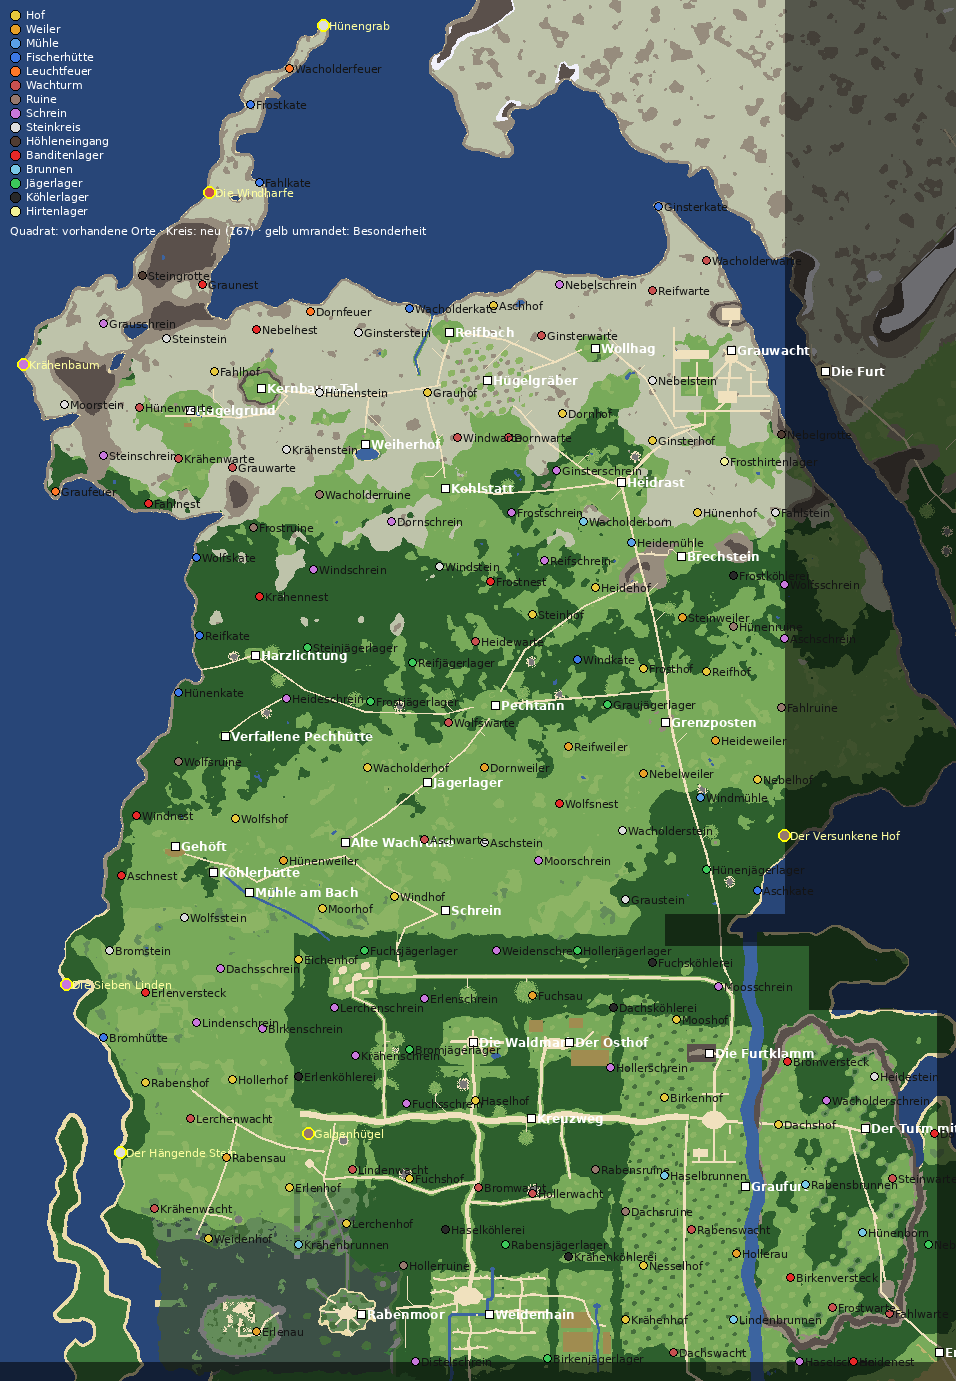
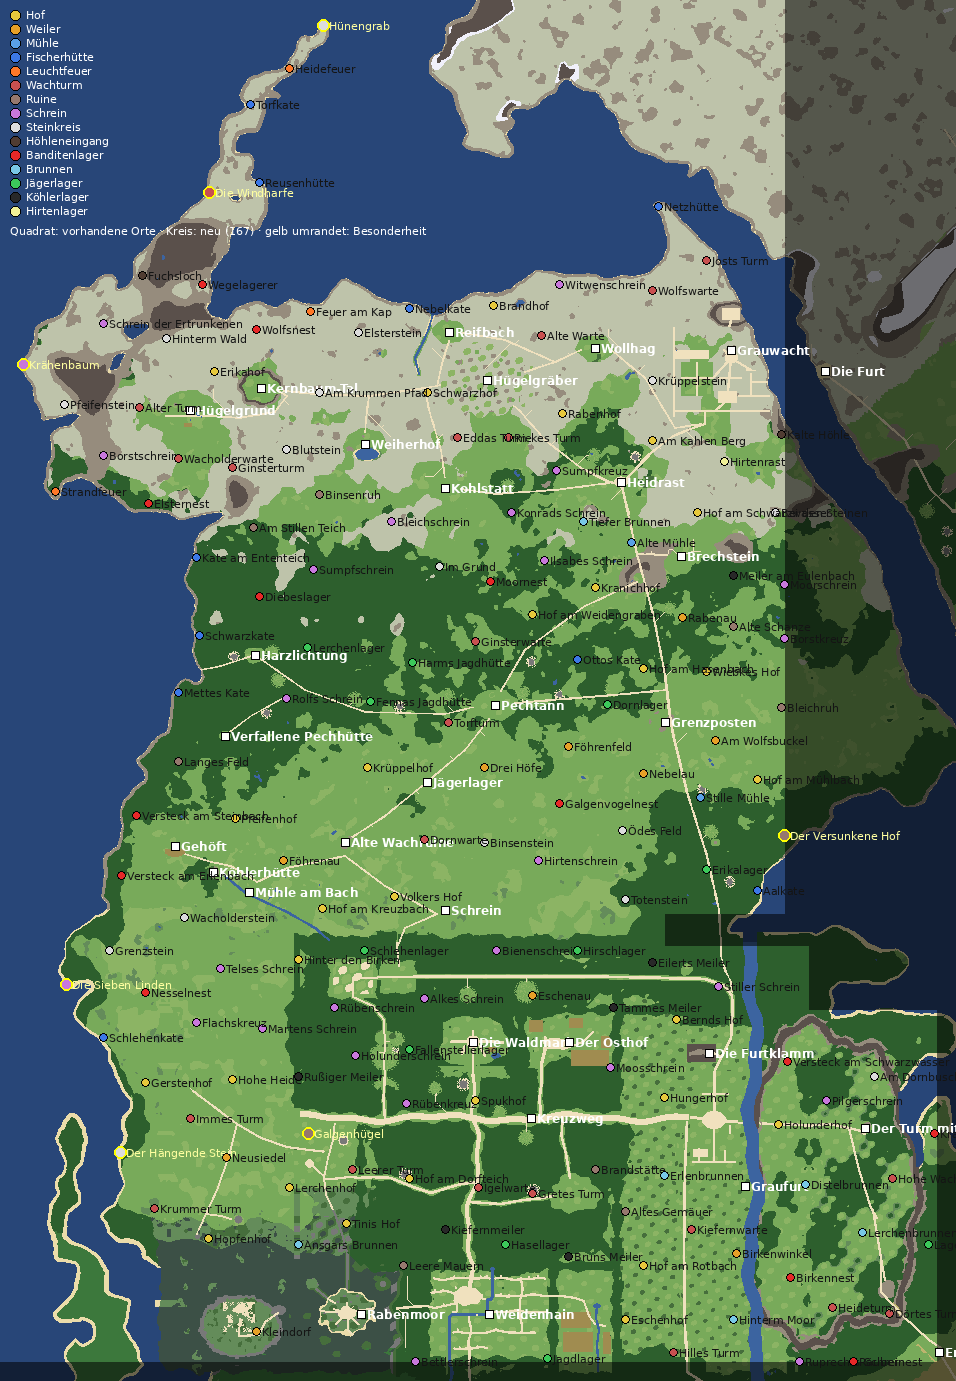
Welt: Kleinorte Schritt 1 – natürliche Namen (Personen, Lage, Geschichten), Lage unverändert
kleinorte_namen.py: Personennamen (je einmal), Lagebezeichnungen, Geschichten, kurze Zusammensetzungen;
je Vorsilbe höchstens 2 Orte je Land, keine Doppelungen, nichts Verwechselbares mit vorhandenen Orten.

Claude-Session: https://claude.ai/code/session_01TxcDgCGDXB5iarBWHVLHjr

diff --git a/realtime/werkzeug/welt/kleinorte_namen.py b/realtime/werkzeug/welt/kleinorte_namen.py
@@ -1,0 +1,67 @@
+"""
+World Pipeline – Namen der Kleinorte (Leitstelle 28.11.): natürlich statt Baukasten. Behält Lage und Art aus welt/plaene/kleinorte_<schritt>.json und vergibt neue Namen:
+  · Personennamen („Ottos Hof“, „Mettes Kate“), Lagebezeichnungen („Am Kreuzbach“, „Hinterm Moor“, „Ödes Feld“), Geschichten („Brandhof“, „Witwenschrein“),
+    kurze Zusammensetzungen („Birkenlager“, „Distelhof“) – je Vorsilbe höchstens 2 Orte je Land, jeder Personenname einmal je Land;
+  · keine Doppelungen („Steinstein“), keine sperrigen Wörter, nichts, was vorhandene Orte doppelt oder verwechselbar macht (gleicher Wortanfang wie ein Ort im Umkreis).
+Die Besonderheiten behalten ihren Namen. Aufruf (im Ordner realtime): python3 werkzeug/welt/kleinorte_namen.py schritt1 (danach kleinorte.py --nur-bild schritt1)
+"""
+import json, os, sys, random, math
+from collections import Counter
+RT = os.path.normpath(os.path.join(os.path.dirname(os.path.abspath(__file__)), '..', '..')); W = os.path.join(RT, 'welt')
+schritt = next((a for a in sys.argv[1:] if a.startswith('schritt')), 'schritt1'); P = os.path.join(W, 'plaene', f'kleinorte_{schritt}.json'); D = json.load(open(P, encoding='utf8'))
+on = json.load(open(os.path.join(W, 'ortsnamen.json'), encoding='utf8'))
+VORH = [(o['name'], o['x'], o['y']) for o in on['orte']] + [(g['name'], g['schrift'][0], g['schrift'][1]) for g in on['gebiete']]
+rng = random.Random('namen-' + schritt)
+PERSONEN = ['Otto', 'Mette', 'Hinnerk', 'Grete', 'Ansgar', 'Wiebke', 'Jost', 'Alke', 'Tamme', 'Fenna', 'Lüder', 'Imme', 'Bodo', 'Gesche', 'Ruprecht', 'Edda', 'Wendel', 'Hille', 'Rolf', 'Trude',
+            'Harm', 'Telse', 'Bernd', 'Ilsabe', 'Volker', 'Rieke', 'Gerold', 'Hedda', 'Lambert', 'Tini', 'Sievert', 'Agnes', 'Konrad', 'Dörte', 'Eilert', 'Marten', 'Ottilie', 'Brun', 'Wilma', 'Hauke']
+def gen(n): return n + ('' if n.endswith('s') else 's')
+STAEMME = {'Grenzland': ['Distel', 'Eichen', 'Linden', 'Erlen', 'Moos', 'Weiden', 'Hasel', 'Nessel', 'Birken', 'Lerchen', 'Schlehen', 'Hopfen', 'Ahorn', 'Eschen', 'Mohn', 'Holunder', 'Rüben', 'Gersten', 'Hafer', 'Flachs', 'Bienen', 'Tauben', 'Igel', 'Kiefern'],
+           'Fahle Weiten': ['Heide', 'Ginster', 'Wacholder', 'Nebel', 'Asch', 'Wolfs', 'Moor', 'Dorn', 'Torf', 'Schwarz', 'Bleich', 'Krüppel', 'Föhren', 'Elster', 'Raben', 'Kranich', 'Binsen', 'Borst', 'Sumpf', 'Lerchen', 'Pfeifen', 'Erika'],
+           'Ockerlande': ['Rot', 'Lehm', 'Ocker', 'Akazien', 'Sand', 'Staub', 'Dürr', 'Kamel', 'Salz', 'Ton', 'Dattel', 'Glut', 'Geier', 'Skorpion', 'Wüsten', 'Sonnen']}
+GEWAESSER = ['Kreuzbach', 'Krähenbach', 'Erlenbach', 'Mühlbach', 'Schwarzwasser', 'Moorgraben', 'Eulenbach', 'Weidengraben', 'Steinbach', 'Rotbach', 'Hasenbach', 'Ententeich', 'Dorfteich']
+LAGE = ['Hinterm Moor', 'Ödes Feld', 'Am Hohlweg', 'Unterm Hang', 'Am Dornbusch', 'Hinter den Birken', 'Am Kahlen Berg', 'Im Grund', 'Am Wolfsbuckel', 'Hohe Heide', 'Am Krummen Pfad', 'Hinterm Wald', 'Langes Feld', 'Am Stillen Teich', 'Bei den Steinen']
+GESCHICHTE = {'hof': ['Brandhof', 'Hungerhof', 'Wüster Hof', 'Kalter Hof', 'Spukhof', 'Witwenhof', 'Letzter Hof'], 'schrein': ['Witwenschrein', 'Schrein der Ertrunkenen', 'Pilgerschrein', 'Stiller Schrein', 'Bettlerschrein', 'Hirtenschrein'],
+              'stein': ['Kahler Stein', 'Totenstein', 'Drei Steine', 'Die Neun Steine', 'Blutstein', 'Wetterstein', 'Grenzstein'], 'ruine': ['Altes Gemäuer', 'Brandstätte', 'Verfallene Kate', 'Leere Mauern', 'Zerfallener Hof', 'Alte Schanze'],
+              'turm': ['Alter Turm', 'Krummer Turm', 'Leerer Turm', 'Hohe Wacht', 'Alte Warte'], 'banditen': ['Räubernest', 'Schlupfwinkel', 'Galgenvogelnest', 'Diebeslager', 'Wegelagerer'], 'muehle': ['Schwarze Mühle', 'Stille Mühle', 'Alte Mühle'],
+              'hoehle': ['Dachsbau', 'Fuchsloch', 'Kalte Höhle', 'Bärenloch'], 'fischer': ['Netzhütte', 'Reusenhütte', 'Aalkate'], 'leuchtfeuer': ['Feuer am Kap', 'Strandfeuer', 'Klippenfeuer'],
+              'brunnen': ['Durstbrunnen', 'Kalter Brunnen', 'Tiefer Brunnen'], 'jaeger': ['Jagdlager', 'Fallenstellerlager', 'Hirschlager'], 'koehler': ['Kohlstelle', 'Rußiger Meiler'],
+              'hirten': ['Schäferlager', 'Hirtenrast'], 'weiler': ['Kleindorf', 'Drei Höfe', 'Neusiedel'], 'lager': ['Rastlager']}
+ENDE = {'hof': ['hof'], 'weiler': ['au', 'feld', 'winkel'], 'muehle': ['mühle'], 'turm': ['warte', 'turm'], 'ruine': ['ruh'], 'schrein': ['schrein', 'kreuz'], 'stein': ['stein'], 'hoehle': ['loch', 'grotte'],
+        'fischer': ['kate'], 'leuchtfeuer': ['feuer'], 'banditen': ['nest'], 'brunnen': ['brunnen', 'born'], 'jaeger': ['lager'], 'koehler': ['meiler'], 'hirten': ['pferch'], 'lager': ['lager']}
+BESITZ = {'hof': 'Hof', 'weiler': 'Winkel', 'muehle': 'Mühle', 'fischer': 'Kate', 'koehler': 'Meiler', 'hirten': 'Pferch', 'brunnen': 'Brunnen', 'jaeger': 'Jagdhütte', 'schrein': 'Schrein', 'turm': 'Turm'}
+AM = {'muehle': 'Mühle am {g}', 'jaeger': 'Lager am {g}', 'fischer': 'Kate am {g}', 'hof': 'Hof am {g}', 'schrein': 'Schrein am {g}', 'banditen': 'Versteck am {g}', 'hirten': 'Pferch am {g}', 'brunnen': 'Brunnen am {g}', 'koehler': 'Meiler am {g}'}
+benutzt = {n for n, _, _ in VORH} | {q['name'] for q in D['orte'] if q['besonders']}
+stamm_n, person_n, ende_n = Counter(), Counter(), Counter()
+def verwechselbar(name, x, y):
+    w = name.split()[-1].lower()[:5] if ' ' not in name else name.lower()
+    for n, a, b in VORH:
+        if math.hypot(a - x, b - y) < 400 and (n.lower()[:4] == name.lower()[:4] or (len(w) >= 4 and n.lower().startswith(w[:4]))): return True
+    return False
+def neu_name(q):
+    art, l, x, y = q['art'], q['land'], q['x'], q['y']; st = STAEMME.get(l, STAEMME['Fahle Weiten'])
+    for _ in range(400):
+        m = rng.random(); n = None; key = None
+        if m < 0.22 and art in BESITZ:
+            p = rng.choice(PERSONEN)
+            if person_n[p] >= 1: continue   # jeder Personenname einmal (weltweit)
+            n = f'{gen(p)} {BESITZ[art]}'; key = ('p', l, p)
+        elif m < 0.36 and art in AM:
+            g = rng.choice(GEWAESSER); n = AM[art].format(g=g); key = ('g', l, g)
+            if stamm_n[key] >= 1: continue
+        elif m < 0.46 and art in ('hof', 'weiler', 'stein', 'ruine', 'hirten', 'brunnen'):
+            n = rng.choice(LAGE); key = ('l', l, n)
+        elif m < 0.62 and art in GESCHICHTE:
+            n = rng.choice(GESCHICHTE[art]); key = ('h', l, n)
+        else:
+            s = rng.choice(st); e = rng.choice(ENDE.get(art, ['hof']))
+            if e.lower() in s.lower() or s.lower().endswith(e[:3]) or stamm_n[('s', l, s)] >= 2: continue
+            n = s + e; key = ('s', l, s)
+        if not n or n in benutzt or verwechselbar(n, x, y): continue
+        benutzt.add(n); stamm_n[key] += 1
+        if key[0] == 'p': person_n[key[2]] += 1
+        return n
+    return q['name']
+for q in D['orte']:
+    if not q['besonders']: q['name'] = neu_name(q)
+json.dump(D, open(P, 'w', encoding='utf8'), ensure_ascii=False, indent=1)
+print(len(D['orte']), 'Namen:', ', '.join(q['name'] for q in D['orte']))

diff --git a/realtime/werkzeug/welt/kleinorte.py b/realtime/werkzeug/welt/kleinorte.py
@@ -198,6 +198,11 @@ from collections import Counter
 erg = {'hinweis': f'Kleinorte {schritt} (kleinorte.py): PLAN zur Freigabe – noch nichts gebaut. Weltfelder.', 'schritt': schritt, 'laender': LAENDER, 'anzahl': len(neu),
        'je_art': dict(Counter(q['artname'] for q in neu)), 'je_land': dict(Counter(q['land'] for q in neu)), 'messung': {'vorher': vor, 'nachher': nach}, 'objekte_je_art': OBJEKTE, 'orte': neu}
 os.makedirs(os.path.join(W, 'plaene'), exist_ok=True)
+_alt = os.path.join(W, 'plaene', f'kleinorte_{schritt}.json')
+if '--namen-behalten' in sys.argv and os.path.exists(_alt):   # Namen aus kleinorte_namen.py behalten (Lage ist gleich: fester Zufall)
+    _n = {(q['x'], q['y']): q['name'] for q in lies(_alt)['orte']}
+    for q in neu: q['name'] = _n.get((q['x'], q['y']), q['name'])
+    erg['orte'] = neu
 json.dump(erg, open(os.path.join(W, 'plaene', f'kleinorte_{schritt}.json'), 'w', encoding='utf8'), ensure_ascii=False, indent=1)
 
 # ───── Skizze ─────
